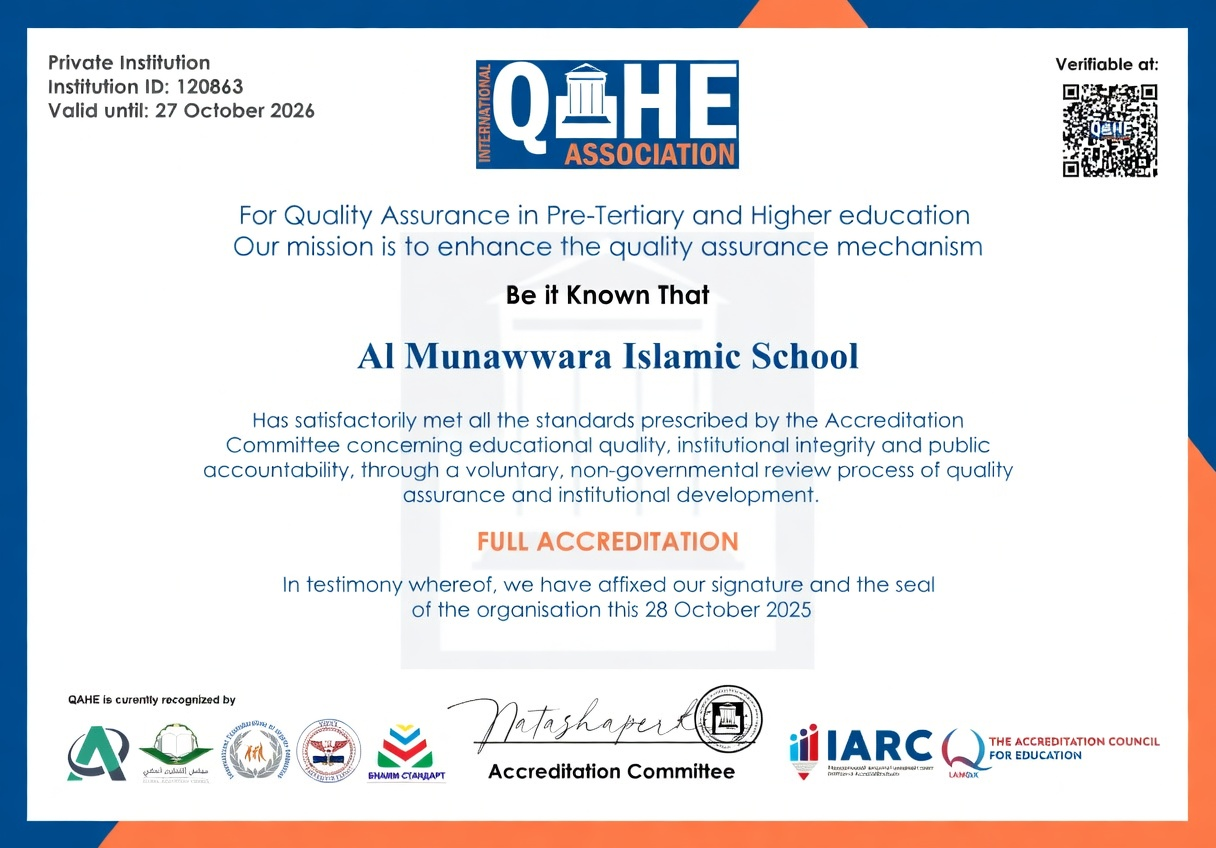
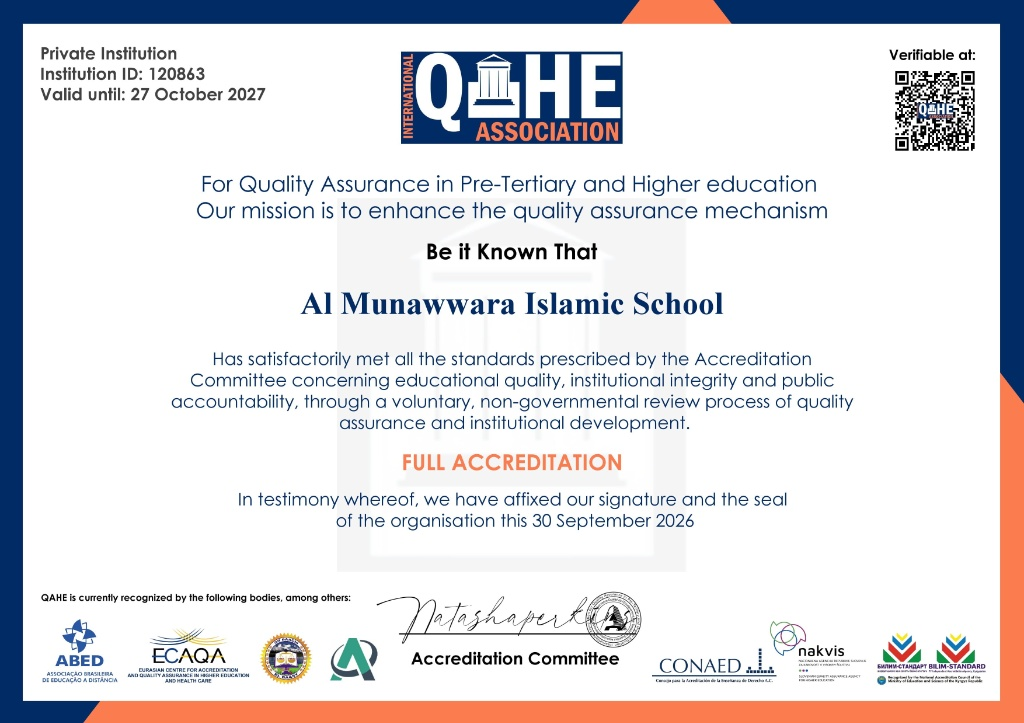
feat(accreditation): update QAHE accreditation certificate (2027) and add DepEd/PEAC ESC certified status

diff --git a/resources/views/about/certifications.blade.php b/resources/views/about/certifications.blade.php
@@ -175,9 +175,9 @@
     }
     .accred-badges {
         display: grid;
-        grid-template-columns: repeat(auto-fit, minmax(200px, 1fr));
+        grid-template-columns: repeat(auto-fit, minmax(180px, 1fr));
         gap: 20px;
-        max-width: 900px;
+        max-width: 1050px;
         margin: 0 auto;
     }
     .badge {
@@ -239,16 +239,19 @@
 
             <div class="main-accreditations">
                 <div class="accred-section">
-                    <h2 class="accred-title">QAHE - Quality Assurance in Higher Education</h2>
-                    <div class="accred-images-grid">
-                        <div class="accred-img-card zoomable" data-image="/accre/QAHE_cert1.jpg">
-                            <img src="/accre/QAHE_cert1.jpg" alt="QAHE Certificate 1" loading="lazy" />
+                    <h2 class="accred-title">QAHE - Quality Assurance in Pre-Tertiary &amp; Higher Education</h2>
+                    <div class="accred-images-grid single">
+                        <div class="accred-img-card large zoomable" data-image="/accre/QAHE_cert.png">
+                            <img src="/accre/QAHE_cert.png" alt="QAHE Full Accreditation Certificate" loading="lazy" />
                         </div>
-                        <div class="accred-img-card zoomable" data-image="/accre/QAHE_cert2.jpg">
-                            <img src="/accre/QAHE_cert2.jpg" alt="QAHE Certificate 2" loading="lazy" />
-                        </div>
-                        <div class="accred-img-card zoomable" data-image="/accre/QAHE_cert3.jpg">
-                            <img src="/accre/QAHE_cert3.jpg" alt="QAHE Certificate 3" loading="lazy" />
+                    </div>
+                </div>
+
+                <div class="accred-section">
+                    <h2 class="accred-title">DepEd &amp; PEAC - Private Education Assistance Committee</h2>
+                    <div class="accred-images-grid single">
+                        <div class="accred-img-card large zoomable" data-image="/accre/PEAC_cert.png">
+                            <img src="/accre/PEAC_cert.png" alt="DepEd &amp; PEAC ESC Certified Status Certificate" loading="lazy" />
                         </div>
                     </div>
                 </div>
@@ -265,13 +268,19 @@
 
             <div class="info-box">
                 <h2>Our Commitment to Quality</h2>
-                <p>Al Munawwara Islamic School maintains the highest standards of educational excellence. Our international accreditations from QAHE and ACTD, along with DepEd recognition, reflect our dedication to providing quality Islamic education that meets and exceeds national and international standards.</p>
+                <p>Al Munawwara Islamic School maintains the highest standards of educational excellence. Our national certifications from DepEd and PEAC, along with international accreditations from QAHE and ACTD, reflect our dedication to providing quality Islamic education that meets and exceeds national and international standards.</p>
                 <div class="accred-badges">
                     <div class="badge">
                         <div class="badge-icon" style="display: flex; justify-content: center; align-items: center;">
                             <svg width="36" height="36" viewBox="0 0 24 24" fill="none" stroke="currentColor" stroke-width="3" stroke-linecap="round" stroke-linejoin="round"><path d="M20 6 9 17l-5-5"/></svg>
                         </div>
                         <div class="badge-text">QAHE Accredited</div>
+                    </div>
+                    <div class="badge">
+                        <div class="badge-icon" style="display: flex; justify-content: center; align-items: center;">
+                            <svg width="36" height="36" viewBox="0 0 24 24" fill="none" stroke="currentColor" stroke-width="3" stroke-linecap="round" stroke-linejoin="round"><path d="M20 6 9 17l-5-5"/></svg>
+                        </div>
+                        <div class="badge-text">PEAC / ESC Certified</div>
                     </div>
                     <div class="badge">
                         <div class="badge-icon" style="display: flex; justify-content: center; align-items: center;">

diff --git a/resources/views/about/history.blade.php b/resources/views/about/history.blade.php
@@ -98,7 +98,7 @@
 
                 <p>Initially, the school offered Kindergarten, Preparatory, and Grade 1 levels for the School Year 2008-2009 and the Summer of 2009. The school provided an 8-week curriculum on Early Childhood Learning in preparation for Grade 1 and an Accelerated Islamic Studies Learning Program for transfer students who did not have Islamic Studies in their previous schools.</p>
 
-                <p>As of now, the Al Munawwara Islamic School (AMIS) completely offers Basic Education from Kindergarten 1 to Grade 12 with the Department of Education's K-12 Curriculum and Revised K-10 Curriculum plus a refined standard Madrasah Curriculum. AMIS has also received international accreditation from QAHE in 2025 and ACTD USA.</p>
+                <p>As of now, the Al Munawwara Islamic School (AMIS) completely offers Basic Education from Kindergarten 1 to Grade 12 with the Department of Education's K-12 Curriculum and Revised K-10 Curriculum plus a refined standard Madrasah Curriculum. AMIS has also received international accreditation from QAHE and ACTD USA, alongside PEAC ESC Certified Status for its Junior High School Program.</p>
 
                 <p>Al Munawwara Islamic School believes that the "Islamic Development Approach" leads to academic excellence, it produces the sphere of creativity, ingenuity of one's mind, and well-rounded student development. Our commitment to quality learning and extensive educational exposure aims to equip students to meet global demands and achieve a brighter future. While emphasizing physical, social, and intellectual development, we prioritize Islamic values and beliefs based on the Qur'an and Sunnah as the core of our educational integrity.</p>
             </div>
